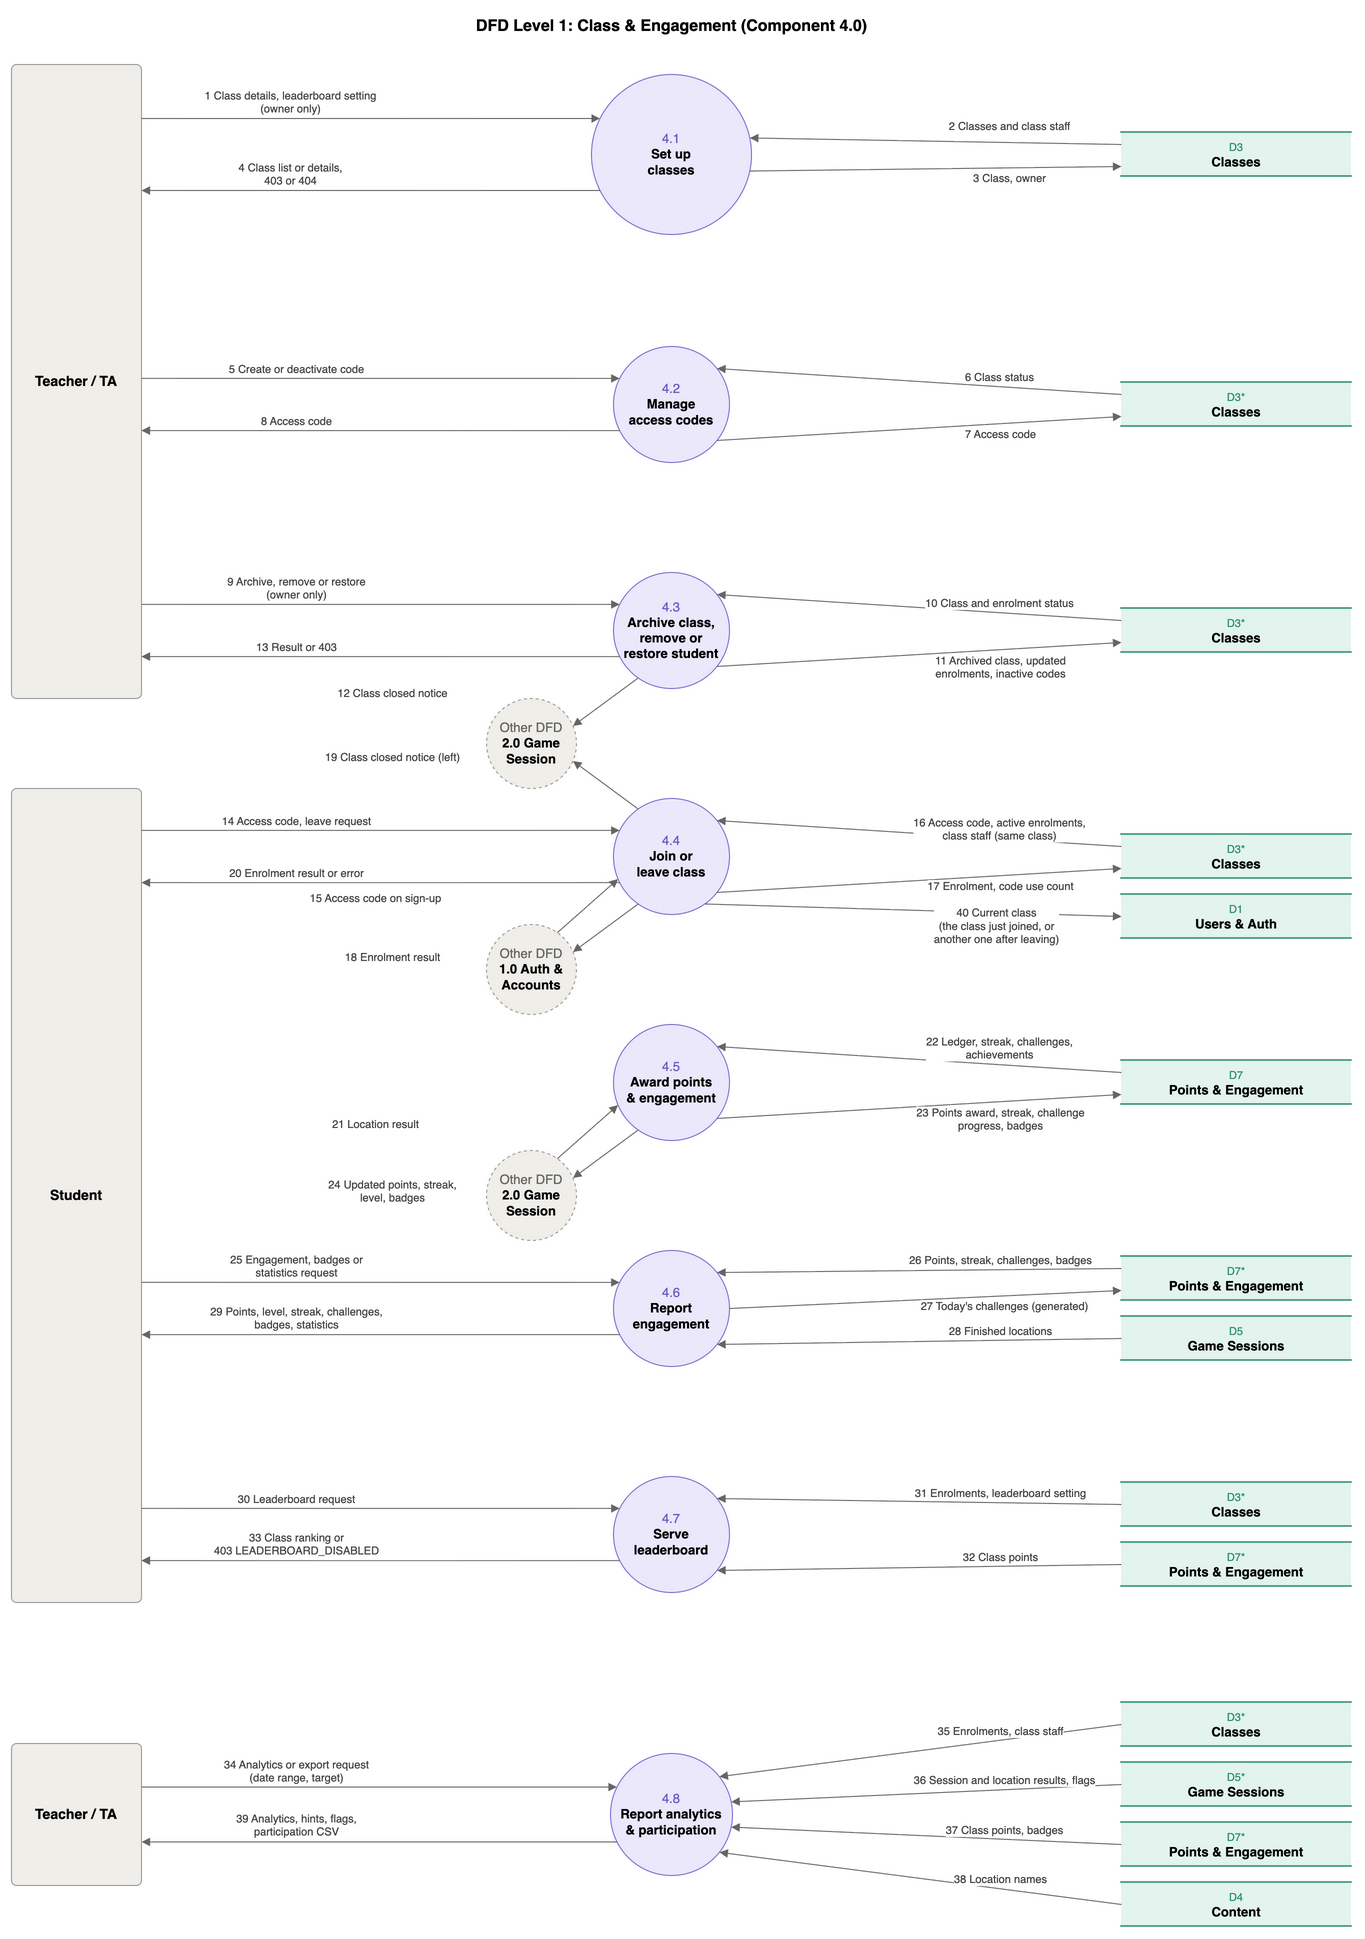
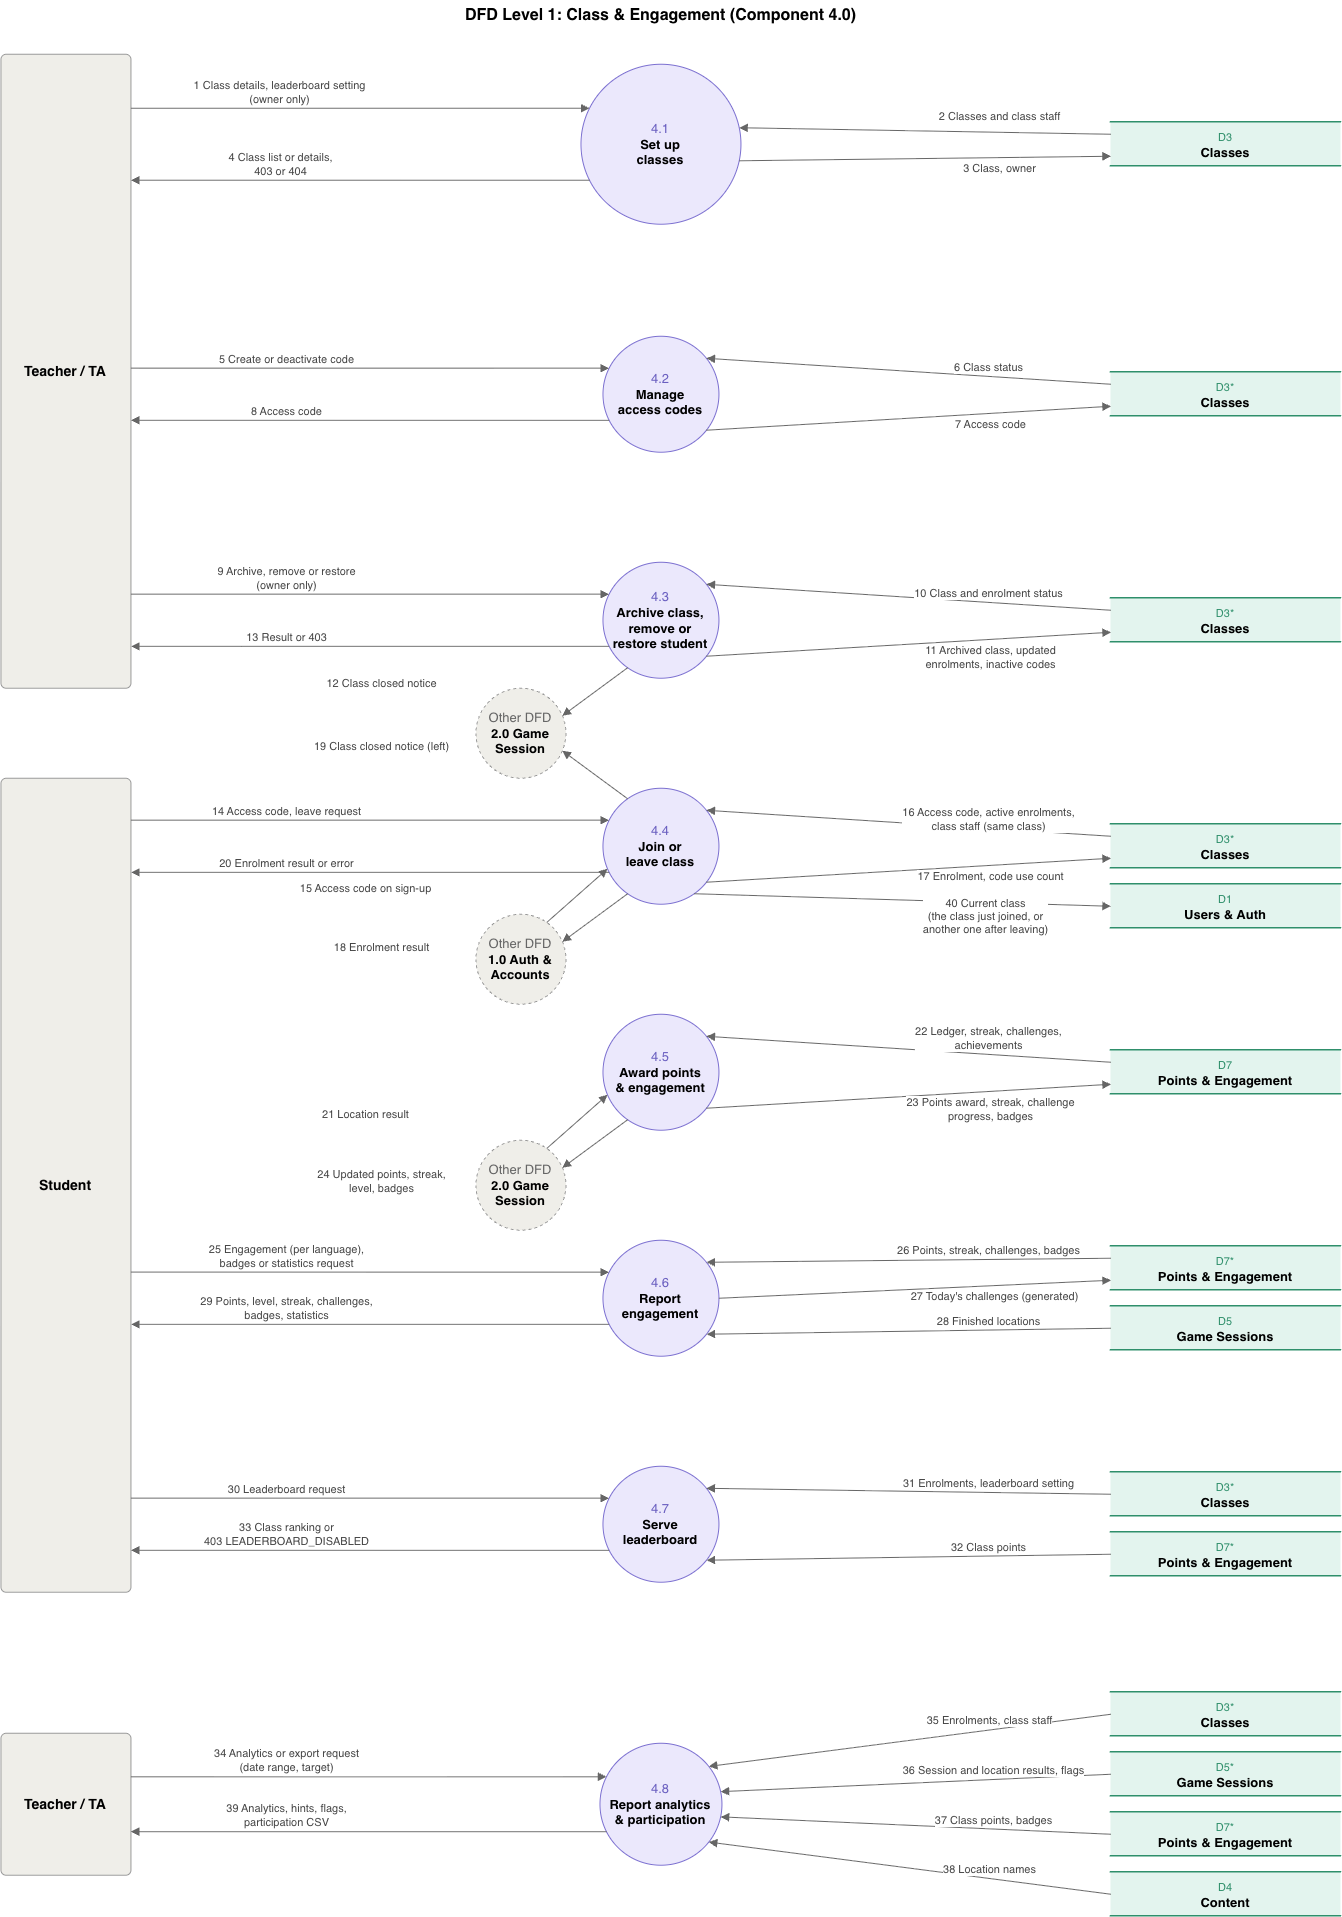
docs: add week 9 team log

diff --git a/logs/team/week-9.md b/logs/team/week-9.md
@@ -1,0 +1,111 @@
+# Week 9 Team Log (Nov. 2 - Nov. 8)
+
+Authors: Mia Kuang, Fabiha Afifa
+
+This week, we finished the Stage 1 navigation work (A19), merged the student endpoints for points, levels and achievements (A12) and the first A20 content routes, added the sign-in follow-ups and global rate limiting (A2), and started the account routes for logout, profile and password change. We also discussed the demo for the client on Discord and wrote a first proposal for the student game screens. No frontend code has been written yet.
+
+The work was distributed so that (PRs merged into main this week are listed first, then PRs opened this week that were not merged by the end of the week):
+
+- **Mia** worked on GPS navigation and arrival confirmation (A19) and the GPS replay script (#46).
+  - *Merged:* A19 #305-#310 (parts 1-6) and the three follow-up fixes #318, #319, #320. The work added the pure Stage 1 navigation rules, weak GPS and speed-flag handling, `GET /games/{id}/current-location`, `POST /games/{id}/navigation/ping`, `POST /games/{id}/navigation/confirm-arrival`, and Postgres race tests for overlapping pings, confirmations, shuffles, quits and deactivated locations.
+  - *Opened this week:* #318, #319, #320 (all merged), and #326, #327.
+  - *Not merged yet:* #326 and #327, the GPS replay script for walking routes and the tests that replay routes against the real routes (#46 parts 1 and 2).
+
+- **Fabiha** worked on points, levels and achievements (A12).
+  - *Merged:* #298 (student points and level endpoint), #299 (student achievements endpoint) and #300 (`score_finalized_location`, the shared function that finalizes a location's score for the game).
+  - *Opened this week:* none. Her A12 PRs were opened earlier and reviewed and merged this week.
+
+- **Eddy** worked on content management (A20).
+  - *Merged:* #292, #293, #295, the routes for locations, clue text, and clue audio upload and coverage.
+  - *Opened this week:* #321, which refuses a ZIP whose list of files is too long before reading it. It has changes requested.
+  - *Not merged yet:* #321, and #296, #301, #303, #304 (request-body size middleware and the concurrent-import fixes), which are not on main yet.
+
+- **Kaedyn** worked on accounts (A2, A22, A24).
+  - *Merged:* #286 (sign-in follow-ups) and #314 (rate limiting). #286 added refresh token rotation with a 30-second grace window, so two tabs refreshing together are not signed out, revokes the whole token family when an old token is reused, and runs a dummy password check for unknown emails and over-long passwords so timing does not reveal why a login failed. #314 added the slowapi limiter with a global limit shared by all routes and a login limit per email and IP, a 429 error, and exempts `/health`.
+  - *Opened this week:* #323 (user logout, A22), #324 (`GET /me/profile`, A24), #325 (change password) and #328 (rate-limit tests). #323 is `POST /auth/logout`, which revokes all of the user's refresh tokens and deletes the refresh cookie (an access token already issued keeps working until it expires). #324 returns the signed-in user's email, active classes and app settings. #325 is `POST /me/password`: it needs the current password, refuses a new password that breaks the rules or equals the old one, cancels unused reset and set-password links, revokes all refresh tokens and gives this device a new cookie. #328 tests the rate-limit defaults, that the global limit is shared by all routes, and the login limit per email and IP.
+  - *Not merged yet:* #323, #324, #325 and #328.
+
+Based on the PRs merged into main this week, we met the main goals for navigation and engagement:
+
+- **Game sessions:** A19 is on main. The game can serve the current location, process a GPS ping, and confirm arrival with a GPS override, and it refuses to confirm a deactivated location.
+- **Engagement:** the student endpoints for points, levels and achievements are merged, and the game can finalize a location's score through `score_finalized_location`. The photo verification step (A10) still needs to call it.
+- **Content:** the location, clue text and clue audio routes are merged. The upload limits and concurrent-import fixes are still open.
+- **Accounts:** the sign-in follow-ups and global rate limiting are merged. Logout, profile and change password are open.
+- **Still open:** the A20 request-body limits and concurrent-import fixes, the account routes (#323-#325, #328), and the GPS replay script (#326, #327).
+
+Many PRs were opened but not merged this week. Everyone was busy and reviews took longer than we planned, so the open PRs above are mostly waiting for review.
+
+The team collectively worked on the following to avoid duplicated logic, inconsistent state and unnecessary dependencies:
+
+- **Navigation rules kept pure (#305):** the distance and trend rules are plain functions with no database access, so GPS behaviour can be tested without waiting for real time. The routes only load the state, call the rules and save the result.
+- **One place for progress changes (#306-#309):** moving to the next location and skipping a deactivated location go through the same progress helpers, so the ping and confirm routes do not each have their own copy.
+- **Deactivated locations are refused consistently (#320):** ping and confirm both return 409 `STATE_CHANGED` for a location that was deactivated or is not navigating, and position is required on confirm.
+- **Safe overlapping requests (#310):** the race tests use separate Postgres connections to check pings, confirmations, shuffles and quits that overlap.
+- **One scoring entry point (#300):** `score_finalized_location` lets the game finalize a location's score through the engagement interface instead of repeating the points rules, and it reuses the shared location completion points constant.
+- **Shared validation in content routes (#292, #293, #295):** the routes call the existing content services for validation and audio checks and do not repeat those rules.
+
+These changes keep each rule inside the component that owns it: game session transitions in game, points and achievements in engagement, authentication in accounts, and content validation in content.
+
+## Test results
+
+GitHub Actions could not run this week because of the organization's billing, so we ran the CI checks locally on the merged main branch: `ruff check`, `ruff format --check`, `mypy` and `pytest --cov=app`. All of them pass. pytest reports 1470 passed, 5 skipped, and 99% coverage of `app`.
+
+![pytest on main](img/pytest-main-week9.png)
+
+## Client demo discussion
+
+This week we discussed the demo for the client on Discord. We have not written any frontend code or opened any frontend PR yet. The discussion produced a first proposal for the student game screens, written from a clickable demo that Mia built. It is a proposal and has not been agreed by the team yet.
+
+- **What the demo shows:** the whole student game flow in one clickable page: Home, Stage 1 (walking to the location), Stage 2 (taking the photo), Result and Summary, and the menu for Shuffle, Reset and Quit. It runs on a phone, and it has a simulator panel for walking speed, weak GPS, being inside the radius and the OCR result of the next photo. The demo page is a design reference only, not code for the app.
+- **Main idea:** replace the Stage 1 map, which only shows the student's own dot, with a pixel pet that walks with the student. The pet can be fed and cleaned, hatches and grows as the student walks, and gives them something to look at between locations without hinting where to go. The art is a small pixel grid with a 3-colour screen palette so people who are not artists can draw it.
+- **Rules the design keeps:** feedback that carries direction or distance (the `NAV_*` codes) is audio only, and nothing on screen changes with it, including the pet. The pet depends only on how far the student has walked, feeding and cleaning, never on the distance to the target. Weak GPS and the I'm here button can show on screen because they reveal no direction. No room number appears anywhere, including the camera guide.
+- **Backend mapping:** each screen maps to endpoints we already have or are building: the game status and shuffles (A8, A9), the current location, ping and confirm-arrival (A19), the photo verification (A10), engagement (A12, A14) and the summary (A23). Two gaps came up: no endpoint returns how many resets are left today, and the override time is server time, so the client should not compare it with its own clock.
+- **Spec changes this would need:** replace the Stage 1 map with the pet screen, decide where pet state lives (on the client first, in the backend later), make themes a profile preference (A24), add the two gaps above, and confirm with the client that hand-drawn pixel art counts as designed by the team.
+- **Alternative we considered:** keep a map. We did not choose it because a map showing only the student's position carries little information and looks like every other map app. If the team does not want the pet, the fallback idea is five cards where a shuffle redeals a card.
+- **Questions for the team and the client:** does the pet carry over between games or start as an egg each time, one theme per language or a student setting, and are feed and clean taps while walking too frequent. These need playtests.
+- **Proposed frontend issues:** ten issues (F0-F10) for Milestone 2: the spec change, the design system and app shell, the pet sprite engine, the game shell, the Stage 1 and Stage 2 screens, the pet mechanics, the result and summary, Home, the audio problem dialog and permissions onboarding. They have not been opened yet.
+
+## DFD
+
+With everyone's newly merged work for this week, three of the DFDs below are updated and marked **Updated**. The other merged PRs fill in processes and flows that were already drawn.
+
+### DFD Level 0
+
+Not changed.
+
+![DFD Level 0](img/dfd_level0_context.png)
+
+### DFD Level 1
+
+**1.0 Auth & Accounts (not changed)**
+
+![1.0 Auth & Accounts](img/dfd_level1_auth_accounts.png)
+
+**2.0 Game Session (Updated)**
+
+- Flow 19 (Student → 2.4 Confirm arrival): "optional position" changed to "position (required)". confirm-arrival now needs the position the app is confirming.
+- Flow 18 (2.3 → Student): the error list now reads "409 (incl. STATE_CHANGED) / 429 error". A ping on a location that was deactivated returns 409 `STATE_CHANGED` and writes nothing.
+- Flow 22 (2.4 → Student): the error now reads "409 error (incl. STATE_CHANGED)". Confirming a deactivated location, or a stale position, returns 409 `STATE_CHANGED` and writes nothing.
+- New flow 15a "Location active status": D4* Content → 2.3 Process GPS ping.
+- New flow 20a "Location active status": D4* Content → 2.4 Confirm arrival.
+- Layout: two new D4* Content stores, one in the 2.3 row and one in the 2.4 row. The D8* Media Storage store in the 2.4 row moved down to make room. These changes follow #320.
+
+![2.0 Game Session](img/dfd_level1_game_session.png)
+
+**3.0 Photo Verification (not changed)**
+
+![3.0 Photo Verification](img/dfd_level1_photo_verification.png)
+
+**4.0 Class & Engagement (Updated)**
+
+Flow 25 (Student → 4.6 Report engagement) now reads "Engagement (per language), badges or statistics request". `GET /me/engagement` returns points and level for one target language (#298).
+
+![4.0 Class & Engagement](img/dfd_level1_class_engagement.png)
+
+**5.0 Content Management (Updated)**
+
+Flow 12 (5.3 Upload clue audio → Staff) now includes "VALIDATION_ERROR under 5 ms" in the upload errors. A recording shorter than 5 ms is refused with 422 (#295).
+
+![5.0 Content Management](img/dfd_level1_content_management.png)
+
+The main unfinished work at the end of the week is reviewing and merging the open PRs (A20, the account routes and the GPS replay script), connecting scoring to the live photo verification path, and deciding the frontend direction. Next week, we will divide up the work for the client demo and continue with the later part of the project.
